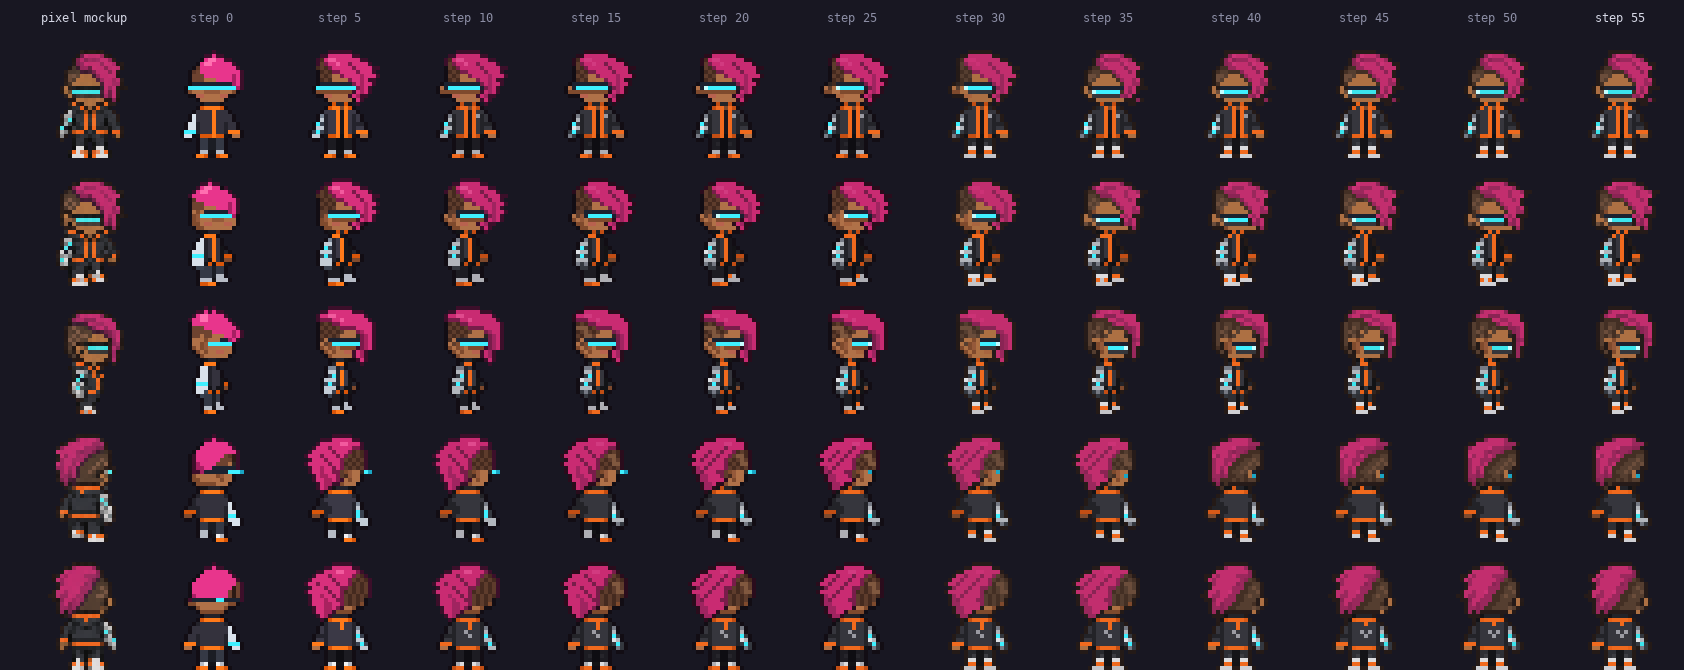
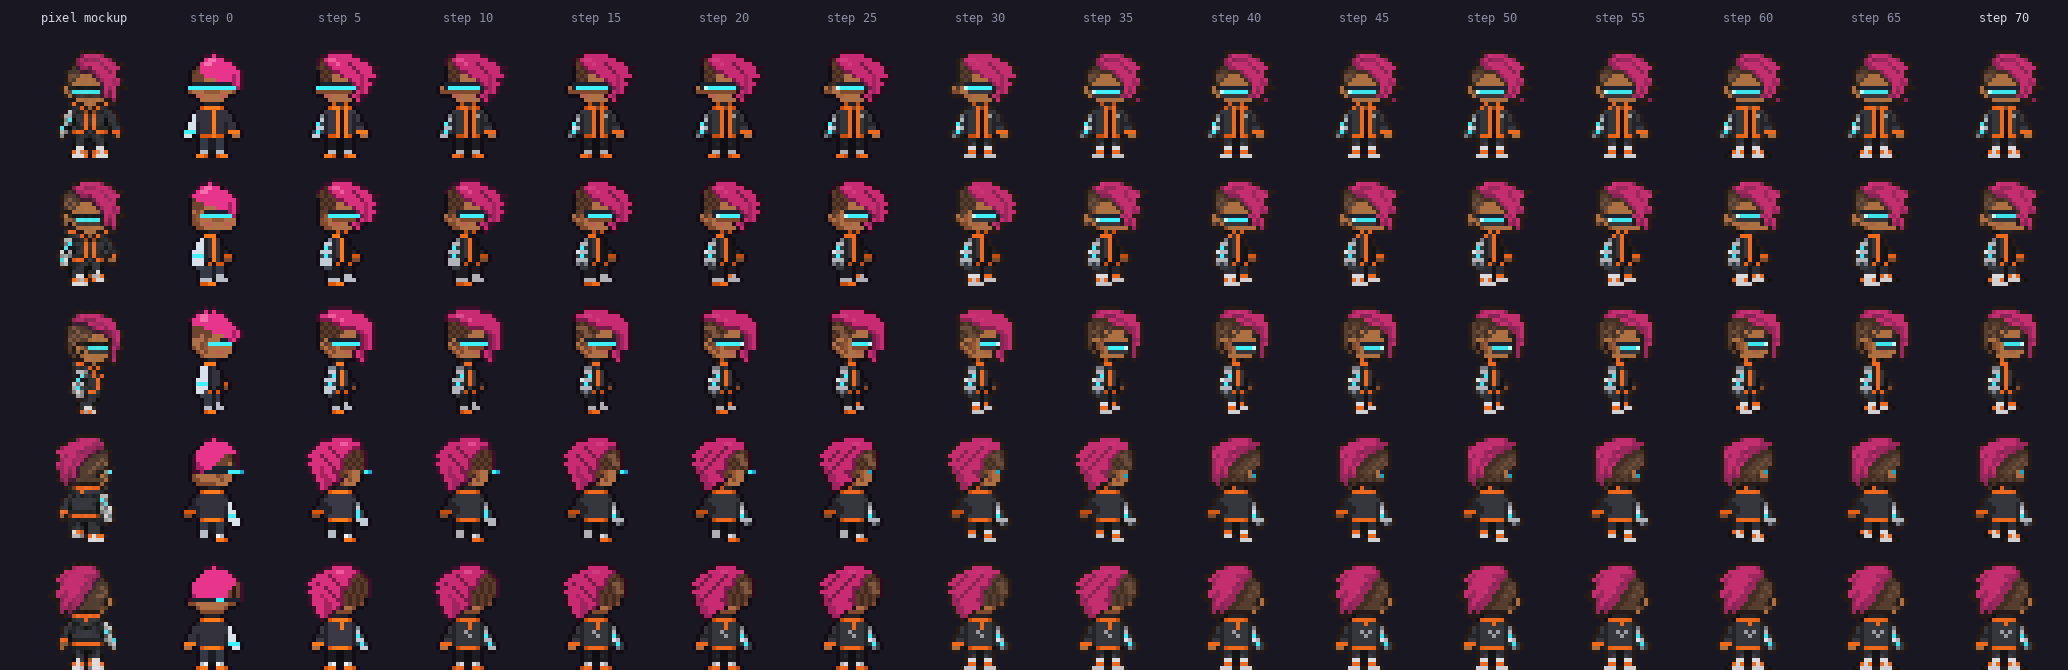
feat(juno): iteration steps 56-70, visor per angle, straight collar, grow rule for the shoes
Three complaints from the human: the visor sat too low on the side views,
the collar bent, the shoes were too small. The visor now has a height per
angle (front keeps its brow row, 3/4 and profile at eye level). The collar
was an edge against the neck, whose boundary is a U; it is the torso's
straight top row now, notched open by the zipper, and the profile zipper
is one straight column. A new `grow` rule pushes a part's outline outward
into empty pixels: the sneakers are three pixels wide instead of two, in
every frame. Similarity unchanged at 0.872 (the score never looked there).
Smoke test passes; all README media regenerated. Snapshots step-60/65/70.

Claude-Session: https://claude.ai/code/session_01Fv8yoVpx8AM9QtDidGMBtM

diff --git a/chargen/character.py b/chargen/character.py
@@ -184,6 +184,9 @@ def render_frame(r: Recipe, f: Frame) -> np.ndarray:
     for rule in r.rules:
         if "facings" in rule and f.facing not in rule["facings"]:
             continue
+        if rule["type"] == "grow":
+            f = _grow(rule, f, rgba, r)
+            continue
         mask = _rule_mask(rule, f)
         for y, x in zip(*np.where(mask)):
             c = r.color(rule["color"], f.tones[y, x])
@@ -200,6 +203,33 @@ def render_frame(r: Recipe, f: Frame) -> np.ndarray:
         edge = ink & a & ~_erode(a) & ~np.isin(painted, list(r.outline.get("keep", "")))
         rgba[edge, :3] = r.color(r.outline["color"], TONE_IDS["base"])
     return rgba
+
+
+def _grow(rule: dict, f: Frame, rgba: np.ndarray, r: Recipe) -> Frame:
+    """`grow`: push a part's silhouette out by `n` pixels on the given `sides` (default
+    all), into transparent pixels only. The part's edge pixel moves outward (so the
+    outline stays an outline) and the pixel it left becomes `color`. The frame's tones
+    and labels grow with it, so later rules see the bigger part. Bigger shoes on a
+    template whose feet are two pixels wide, for example."""
+    tones, lab = f.tones.copy(), f.labels.copy()
+    codes = list(part_codes(rule["part"]))
+    steps = {"up": (-1, 0), "down": (1, 0), "left": (0, -1), "right": (0, 1)}
+    H, W = tones.shape
+    for _ in range(rule.get("n", 1)):
+        part = np.isin(lab, codes) & (tones > 0)
+        for side in rule.get("sides", list(steps)):
+            dy, dx = steps[side]
+            for y, x in zip(*np.where(part)):
+                ny, nx = y + dy, x + dx
+                if not (0 <= ny < H and 0 <= nx < W) or tones[ny, nx] > 0:
+                    continue
+                rgba[ny, nx] = rgba[y, x]
+                tones[ny, nx], lab[ny, nx] = tones[y, x], lab[y, x]
+                if tones[y, x] == TONE_IDS["ink"]:  # the edge moved out: fill behind it
+                    c = r.color(rule["color"], TONE_IDS["base"])
+                    rgba[y, x] = (*c, 255)
+                    tones[y, x] = TONE_IDS["base"]
+    return replace(f, tones=tones, labels=lab)
 
 
 def _erode(a: np.ndarray) -> np.ndarray:

diff --git a/README.md b/README.md
@@ -69,7 +69,7 @@ flowchart LR
 | 2 | [Teaching the AI anatomy](#2--teaching-the-ai-anatomy) | Labeling every pixel of every frame with the body part it belongs to |
 | 3 | [Pixels as text](#3--pixels-as-text) | Why every image here is also a text file |
 | 4 | [Dressing the mannequin](#4--dressing-the-mannequin) | A character is a recipe that renders onto all frames at once |
-| 5 | [Closing the gap](#5--closing-the-gap) | 55 rounds of the agent comparing its render to the mockup: where it stopped paying off, what got it moving again, and where it converged |
+| 5 | [Closing the gap](#5--closing-the-gap) | 70 rounds against the mockup: where it stopped paying off, what got it moving again, where it converged, and what the score never saw |
 | 6 | [Debugging in plain text](#6--debugging-in-plain-text) | Bugs tracked down with a query and fixed with a few characters |
 | 7 | [Variations for free](#7--variations-for-free) | A new colorway is a ten-line file |
 | 8 | [The AI picks up the pencil](#8--the-ai-picks-up-the-pencil) | Why concept art can't just be shrunk into pixel art |
@@ -239,7 +239,7 @@ flowchart LR
 Every five steps the recipe was saved to `characters/juno/history/step-NN.toml`, so each stage of the progression is
 rebuilt from source like every other image here:
 
-<p align="center"><img src="docs/images/juno-iteration.png" alt="Pixel mockup, then Juno after every fifth iteration step from 0 to 55, in five views" width="920"></p>
+<p align="center"><img src="docs/images/juno-iteration.png" alt="Pixel mockup, then Juno after every fifth iteration step from 0 to 70, in five views" width="920"></p>
 
 <p align="center"><img src="docs/images/juno-iteration-heads.png" alt="Head close-ups (front, profile, back) across the same steps" width="920"></p>
 
@@ -259,7 +259,7 @@ The similarity score is deliberately coarse. It lets every opaque pixel look for
 in the other image, so it forgives one-pixel drift but not a wrong shape or color. A perfect 1.0 is out of reach for
 reasons explained below.
 
-<p align="center"><img src="docs/images/juno-similarity.png" alt="Similarity to the mockup per saved step: 0.614, 0.706, 0.752, 0.768, 0.766, 0.767, then 0.836, 0.848, 0.867, 0.872, 0.872, 0.872" width="720"></p>
+<p align="center"><img src="docs/images/juno-similarity.png" alt="Similarity to the mockup per saved step: 0.614, 0.706, 0.752, 0.768, 0.766, 0.767, then 0.836, 0.848, 0.867, then flat at 0.872 from step 45 to 70" width="720"></p>
 
 The first 25 steps show the returns diminishing. Shape (steps 1–5) and color (6–10) were the big wins. After step 15
 the score was flat, and it's worth looking at why, because most of the remaining gap can't be closed by iterating the
@@ -310,7 +310,9 @@ Some details needed new capabilities in the generator, and the agent added them 
   `straight` on twisted poses;
 - `rule_facing = "head"` makes trim follow the tracked head through the spinning attack, so the zipper doesn't end up
   on her back;
-- `[outline] keep` lists the head-grid colors that keep their own color on the silhouette (the ear, the hair outline).
+- `[outline] keep` lists the head-grid colors that keep their own color on the silhouette (the ear, the hair outline);
+- a `grow` rule pushes a body part's outline outward into empty pixels (the sneakers are a pixel wider than the
+  template's feet on both sides), the only rule that changes the silhouette.
 
 All of these are opt-in, so the earlier snapshots still render exactly as they did.
 
@@ -360,6 +362,14 @@ and the outline and visor colors becoming ramps a colorway can swap.
 | 41–45 | **the last color and the ceiling.** Lens cyan, the optimizer and the ceiling instruments, a frame review at zoom | 0.872 |
 | 46–50 | **the recipe as a base for colorways.** Outline and visor rims as ramps, Glitch gets its own outline; converged | 0.872 |
 | 51–55 | **consistency.** Left-facing grids in the same strand vocabulary as the redrawn right-facing ones; final animation pass and figures | 0.872 |
+
+A fourth run (56–70) started from three complaints by the human watching, none of which the score measures: the
+visor sat too low on the side views, the collar bent, the shoes were too small. The visor now has a height per
+angle (the front keeps its brow row, the angled views sit at eye level, which is also what the mockup does). The
+collar bent because it was an *edge* against the neck, and the neck's boundary is a U; it is now the torso's
+straight top row, notched open by the zipper. The shoes needed something no rule could do: change the silhouette.
+A new `grow` rule pushes a part's outline outward, and the sneakers are three pixels wide instead of two. The score
+did not move. It was never looking there.
 
 ## 6 · Debugging in plain text
 

diff --git a/characters/juno/history/NOTES.md b/characters/juno/history/NOTES.md
@@ -77,3 +77,26 @@ grid) and `--fit` (the median mockup color under every render color).
 | 54 | final pass over every animation at contact-sheet scale: nothing to fix | 0.872 |
 | 55 | snapshot. Three runs: 0.614 → 0.767 (25 steps) → 0.867 (15) → 0.872 (15); ceiling for this palette 0.926, the rest is the mockup's wider body | 0.872 |
 
+## Fourth run (steps 56–70): three complaints from the human
+
+"The visor is too low on the side views and needs different heights for different angles. The
+collar bends. The shoes are too small."
+
+| step | change | similarity |
+|---|---|---|
+| 56 | visor heights per angle: profile lens back up to the eye's middle row (as in the mockup, which has it a row higher in profile than from the front); the 3/4-back tip with it | 0.872 |
+| 57 | collar: the `edge` against the neck followed the neck's U-shaped boundary (a curved band from behind, a W in front with the flaps and tips); now one straight `rows` band across the torso's top row, and the zipper rules notch it open at the front. Neck flaps and corner tips dropped | 0.873 |
+| 58 | new rule type `grow`: pushes a part's outline outward into transparent pixels on given sides, moving the edge and filling behind it, and grows the frame's labels so later rules see the bigger part. The sneakers are one pixel wider on both sides (three instead of two in the front view) | 0.873 |
+| 59 | 3/4 lens one row up as well (front 11, 3/4 10, profile 10 in grid rows): the front keeps its brow row, the angled views sit at eye level | 0.872 |
+| 60 | snapshot; walk, run, jump, attack and interact at 6× with the grown feet: no artifacts | 0.872 |
+| 61 | side view text check after the visor move: the 0.005 slip is the eye rows, not a misplacement | 0.872 |
+| 62 | profile zipper `straight = true`: one vertical line from the collar instead of following the torso's contour | 0.872 |
+| 63 | feet at 28×: each shoe is white with orange caps flanking a white middle pixel, as in the mockup | 0.872 |
+| 64 | a straight bottom-row hem was tried and rejected: it drops pixels wherever the torso ends diagonally (3/4, walk) | 0.872 |
+| 65 | snapshot | 0.872 |
+| 66 | README and notes | 0.872 |
+| 67 | playground smoke test with the wider feet | 0.872 |
+| 68 | all README media regenerated | 0.872 |
+| 69 | final animation pass | 0.872 |
+| 70 | snapshot | 0.872 |
+
